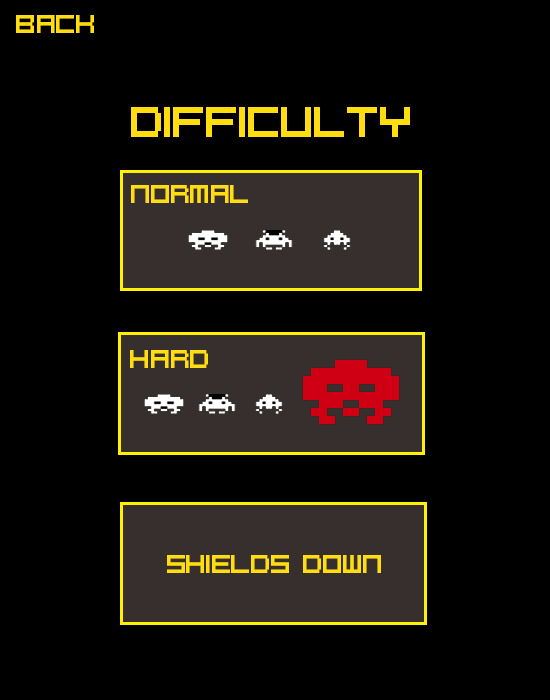
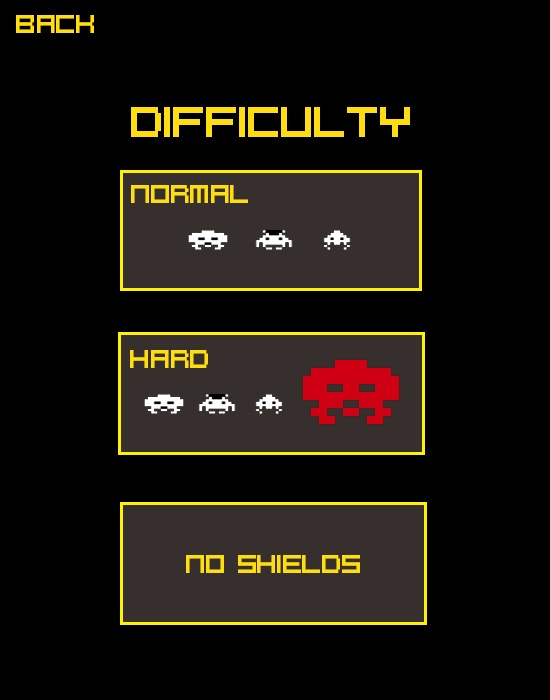
E.Ngine Games: No Shields difficulty for Space Invaders; larger centred menu on wide screens; leaderboard aligned

diff --git a/src/lib/games/spaceinvaders/SpaceInvaders.ts b/src/lib/games/spaceinvaders/SpaceInvaders.ts
@@ -1,6 +1,8 @@
 // Space Invaders (SpaceInvaders.java and its classes), ported to TypeScript. The Java logic is kept
 // as written, quirks included. Changes: menus also work with the mouse (hover + click), W/S
-// replace the arrow keys in menus, and the default ship controls are A/D ("Lefty" in Options).
+// replace the arrow keys in menus, the default ship controls are A/D ("Lefty" in Options), and
+// No Shields (the original's "Shields Down" switch) is a third difficulty: Hard's waves and
+// bosses without bunkers, so each difficulty has its own leaderboard.
 import { Rect } from '../topgun/geometry';
 import { ARIAL, ARIAL_BLACK, COMIC, Gfx, drawRecord, loadImages, loadSave, spotAt, writeSave, type ArcadeGame, type Board, type Hotspot } from '../common';
 
@@ -184,6 +186,8 @@ export class SpaceInvaders implements ArcadeGame {
 			loadSave(SAVE_KEY, { gp: 0, highscore: 0, hwave: 0, kills: 0, bosses: 0, unlock: 0, controls: 2, difficulty: 1, character: 1, shieldsDown: 0 })
 		);
 		if (this.unlock != 1 && this.character == 2) this.character = 1;
+		if (this.shieldsDown == 1) this.difficulty = 3; // saves from when No Shields was a switch
+		this.shieldsDown = this.difficulty == 3 ? 1 : 0;
 		// Create Aliens
 		let startx = 0, starty = 0;
 		for (let i = 0; i < this.numAliens; i++) {
@@ -283,7 +287,7 @@ export class SpaceInvaders implements ArcadeGame {
 		const score = this.score;
 		this.keyPressedJava(k);
 		// Leaving a run from the pause menu still counts its score.
-		if (wasPaused && this.game == 0 && score > 0) this.onScore(1, score);
+		if (wasPaused && this.game == 0 && score > 0) this.onScore(this.difficulty, score);
 		return true;
 	}
 	keyReleased(code: string): boolean {
@@ -356,9 +360,10 @@ export class SpaceInvaders implements ArcadeGame {
 			this.menuMove(k, 3);
 			if (this.delay2 > 5 && k == 'ENTER') {
 				if (this.select == 0) { this.game = 4; this.select = 0; this.delay2 = 0; this.startDelay = 1; }
-				if (this.select == 1) this.difficulty = 1;
-				if (this.select == 2) this.difficulty = 2;
-				if (this.select == 3) this.shieldsDown = this.shieldsDown == 0 ? 1 : 0;
+				if (this.select >= 1) {
+					this.difficulty = this.select; // 1 Normal, 2 Hard, 3 No Shields
+					this.shieldsDown = this.difficulty == 3 ? 1 : 0;
+				}
 			}
 		}
 		// Character Select
@@ -410,7 +415,7 @@ export class SpaceInvaders implements ArcadeGame {
 		const before = this.game;
 		this.run();
 		if (before != 2 && this.game == 2) {
-			this.onScore(1, this.score);
+			this.onScore(this.difficulty, this.score);
 			this.save();
 		}
 	}
@@ -455,7 +460,7 @@ export class SpaceInvaders implements ArcadeGame {
 					this.newWave();
 				}
 			}
-			if (this.difficulty == 2) {
+			if (this.difficulty >= 2) {
 				if (this.aCounter == 45) {
 					this.wave++;
 					this.aCounter = 0;
@@ -935,10 +940,10 @@ export class SpaceInvaders implements ArcadeGame {
 			// Global board, between the title and the stats.
 			g.setColor(Yellow);
 			g.font(14, ARIAL_BLACK);
-			g.drawString('GLOBAL RECORD', 52, 208);
+			g.drawString('GLOBAL RECORD · ' + ['', 'NORMAL', 'HARD', 'NO SHIELDS'][this.difficulty], 52, 208);
 			drawRecord(g, {
 				global: this.global,
-				board: 1,
+				board: this.difficulty,
 				local: this.highscore,
 				loggedIn: this.loggedIn,
 				x: 52,
@@ -974,7 +979,7 @@ export class SpaceInvaders implements ArcadeGame {
 			g.setColor(Yellow);
 			if (this.difficulty == 1) g.fillRect(130, 205, 120, 3);
 			if (this.difficulty == 2) g.fillRect(130, 370, 80, 3);
-			if (this.shieldsDown == 1) g.fillRect(165, 580, 220, 3);
+			if (this.difficulty == 3) g.fillRect(186, 580, 174, 3);
 		}
 		// Character Select Menu
 		if (this.game == 7) {

diff --git a/src/routes/+page.svelte b/src/routes/+page.svelte
@@ -50,6 +50,7 @@
 	const selected = $derived(found && !playlistNode && !galleryNode ? found : null);
 
 	let innerWidth = $state(1200);
+	let innerHeight = $state(800);
 	const insetRight = $derived(selected && innerWidth > 720 ? 518 : 0);
 
 	// ‹ › between nodes, biggest neuron first (wraps around). Web: buttons at the screen
@@ -81,10 +82,18 @@
 	const arcade = $derived(selected?.mediaLayout === 'arcade');
 	const floatMedia = $derived(innerWidth > 1024 && (media.length > 0 || arcade));
 	const mediaWidth = $derived(Math.round(Math.min(600, Math.max(380, innerWidth * 0.38))));
+	// Wide screens: the games menu and its monthly leaderboard side by side (laid out at
+	// ARCADE_BASE px), scaled up to fill the space between the screen edge and the info panel
+	// (as tall as the window allows), and placed in that space leaning toward the panel.
+	const ARCADE_BASE = 890;
+	const arcadeRoom = $derived(innerWidth - 518 - 64 - 32);
+	const arcadeScale = $derived(
+		innerWidth >= 1480 ? Math.max(1, Math.min(1.4, arcadeRoom / ARCADE_BASE, (innerHeight - 40) / 660)) : 1
+	);
+	const arcadeWidth = $derived(innerWidth >= 1480 ? Math.round(ARCADE_BASE * arcadeScale) : mediaWidth);
+	const arcadeLeft = $derived(innerWidth >= 1480 ? Math.round(64 + Math.max(0, arcadeRoom - arcadeWidth) * 0.6) : 64);
 	// Media may overlap the graph a little, so only shift the graph by about half its width.
-	const insetLeft = $derived(floatMedia ? Math.round(mediaWidth * 0.5) : 0);
-	// Wide screens: room for the games menu and its monthly leaderboard side by side.
-	const arcadeWidth = $derived(innerWidth >= 1480 ? Math.min(mediaWidth + 290, innerWidth - 518 - 64 - 120) : mediaWidth);
+	const insetLeft = $derived(floatMedia ? Math.round((arcade ? arcadeLeft - 64 + arcadeWidth : mediaWidth) * 0.5) : 0);
 	const presentTypes = $derived(NODE_TYPES.filter((t) => graph.nodes.some((n) => n.type === t)));
 
 	// Legend filter: click a type to line its neurons up on the left, click again to clear.
@@ -98,7 +107,7 @@
 	}
 </script>
 
-<svelte:window bind:innerWidth />
+<svelte:window bind:innerWidth bind:innerHeight />
 
 <main
 	class="stage"
@@ -179,8 +188,10 @@
 {#if selected}
 	{#key selected.id}
 		{#if floatMedia && arcade}
-			<section class="arcade-dock" style="--media-w: {arcadeWidth}px" aria-label="E.Ngine Games">
-				<EngineMenu onpick={(id) => session.openGames(id)} onlogin={() => (session.loginOpen = true)} />
+			<section class="arcade-dock" style="--media-w: {arcadeWidth}px; left: {arcadeLeft}px" aria-label="E.Ngine Games">
+				<div class="arcade-scale" style="zoom: {arcadeScale}; width: {arcadeWidth / arcadeScale}px">
+					<EngineMenu onpick={(id) => session.openGames(id)} onlogin={() => (session.loginOpen = true)} />
+				</div>
 			</section>
 		{:else if floatMedia}
 			<div style="--media-w: {mediaWidth}px">
@@ -279,6 +290,10 @@
 		overflow-y: auto;
 		scrollbar-width: none;
 		animation: dock-in 0.25s ease-out;
+	}
+	.arcade-scale {
+		flex: none;
+		margin: auto 0;
 	}
 	@keyframes dock-in {
 		from {

diff --git a/src/lib/games/registry.ts b/src/lib/games/registry.ts
@@ -79,7 +79,7 @@ export const GAMES: GameSpec[] = [
 	{
 		id: 'spaceinvaders',
 		title: 'Space Invaders',
-		blurb: 'The arcade classic, with bunkers, a mothership and boss waves on Hard.',
+		blurb: 'The arcade classic: Normal, Hard with boss waves, or No Shields with no bunkers to hide behind.',
 		icon: '/games/icons/spaceinvaders.png',
 		preview: '/games/previews/spaceinvaders.jpg',
 		tagline: 'Waves, bosses, bunkers',
@@ -93,7 +93,7 @@ export const GAMES: GameSpec[] = [
 			{ keys: ['Shift'], label: 'pause' },
 			MOUSE
 		],
-		boards: { 1: 'High score' },
+		boards: { 1: 'Normal', 2: 'Hard', 3: 'No shields' },
 		load: async () => {
 			const m = await import('./spaceinvaders/SpaceInvaders');
 			return new m.SpaceInvaders(await m.loadAssets());

diff --git a/src/lib/components/EngineMenu.svelte b/src/lib/components/EngineMenu.svelte
@@ -42,10 +42,13 @@
 	const askName = $derived(!!session.user && (editing || session.playerName === null));
 </script>
 
-<div class="engine"><div class="cols">
-<div class="menu">
+<div class="engine">
+<header class="head">
 	<img class="logo" src="/games/engine-logo.svg" alt="E.Ngine Games" width="520" height="170" />
 	<p class="tag">Edward's high-school Java games, rebuilt to play in your browser.</p>
+</header>
+<div class="cols">
+<div class="menu">
 
 	<div class="picker">
 		<ul class="stack">
@@ -128,6 +131,13 @@
 		.cols {
 			grid-template-columns: minmax(0, 1fr) 250px;
 		}
+	}
+	.head {
+		display: flex;
+		flex-direction: column;
+		align-items: center;
+		gap: 12px;
+		margin-bottom: 14px;
 	}
 	.menu {
 		display: flex;

diff --git a/src/lib/server/scores.ts b/src/lib/server/scores.ts
@@ -10,7 +10,7 @@ import { decrypt } from './crypto';
 export const GAMES = {
 	topgun: { boards: [1, 2, 3], max: 1_000_000 },
 	fishy: { boards: [1, 2, 3], max: 50_000 },
-	spaceinvaders: { boards: [1], max: 10_000_000 },
+	spaceinvaders: { boards: [1, 2, 3], max: 10_000_000 },
 	pong: { boards: [1, 2], max: 100_000 }
 } as const;
 export type GameId = keyof typeof GAMES;

diff --git a/content/projects/proj-mini-games.md b/content/projects/proj-mini-games.md
@@ -51,7 +51,8 @@ where their bounding boxes overlap.
 
 A remake of the classic arcade game: the player controls a spaceship at the bottom of the screen,
 shooting down waves of descending alien invaders while dodging their projectiles. It has
-destructible bunkers, a bonus mothership, a Hard mode with boss fights, and an unlockable ship.
+destructible bunkers, a bonus mothership and an unlockable ship, and three difficulties: Normal,
+Hard (with boss fights) and No Shields (Hard without the bunkers).
 
 ## Pong × Brick Breaker
 Two paddle games in one. In Pong, the ball speeds up, the paddle shrinks and a second ball joins
